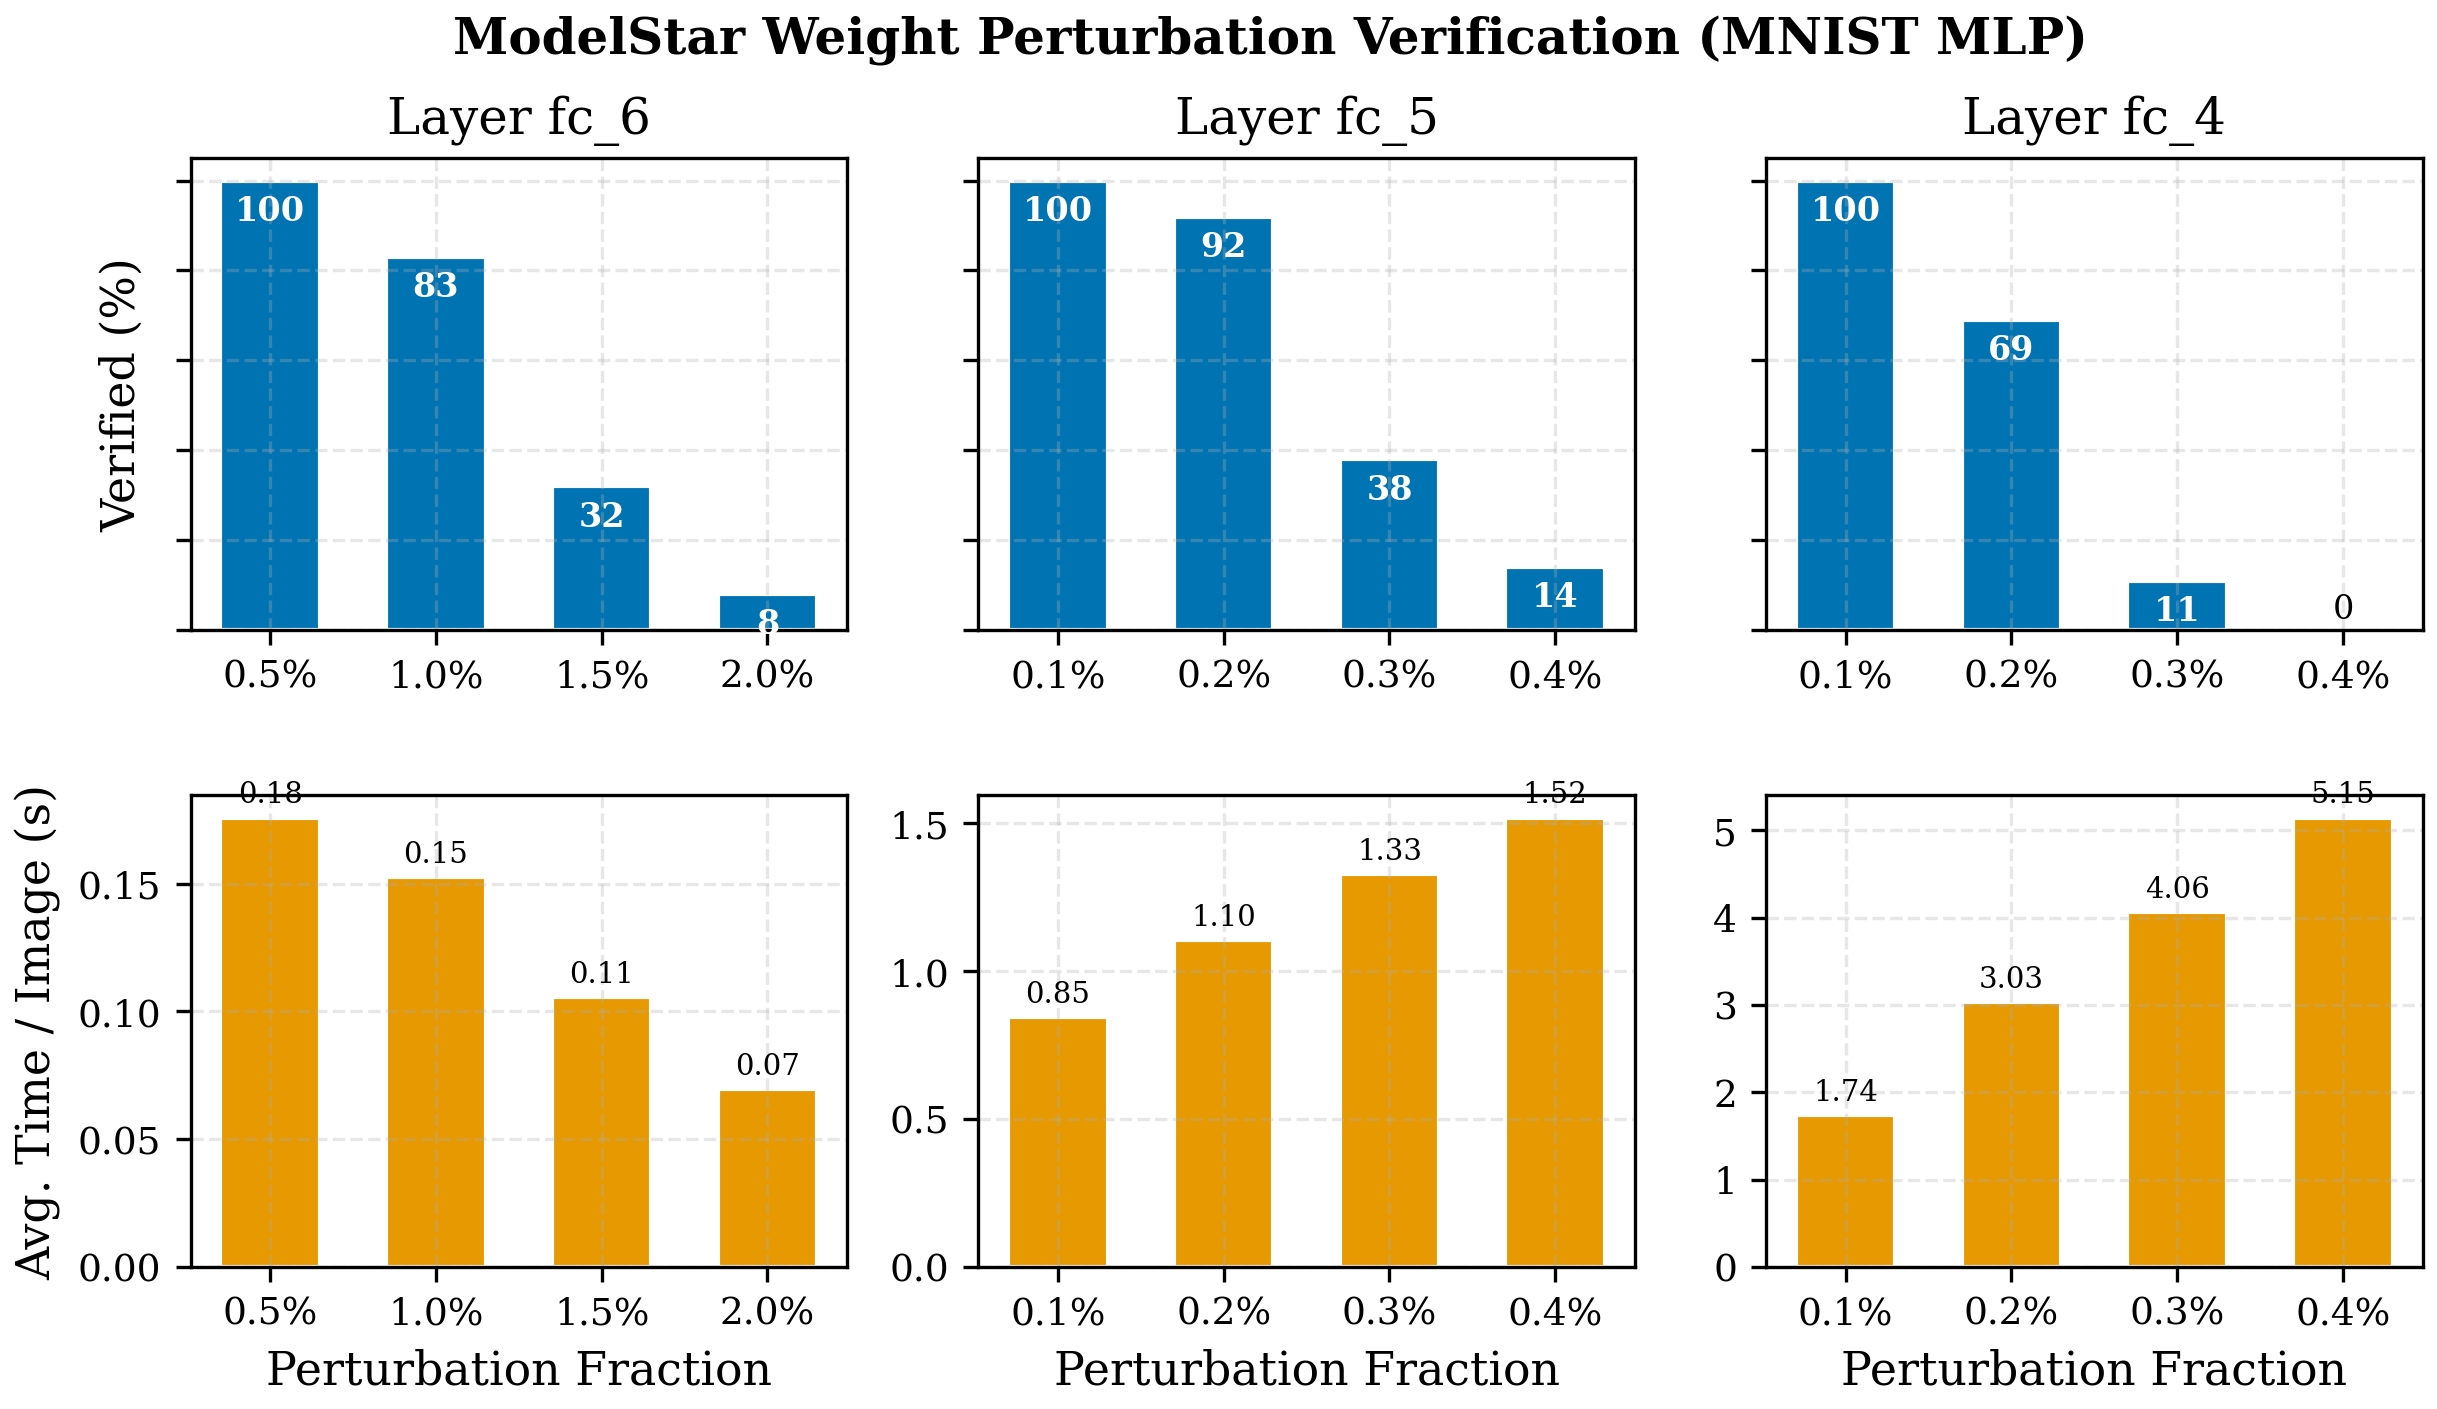
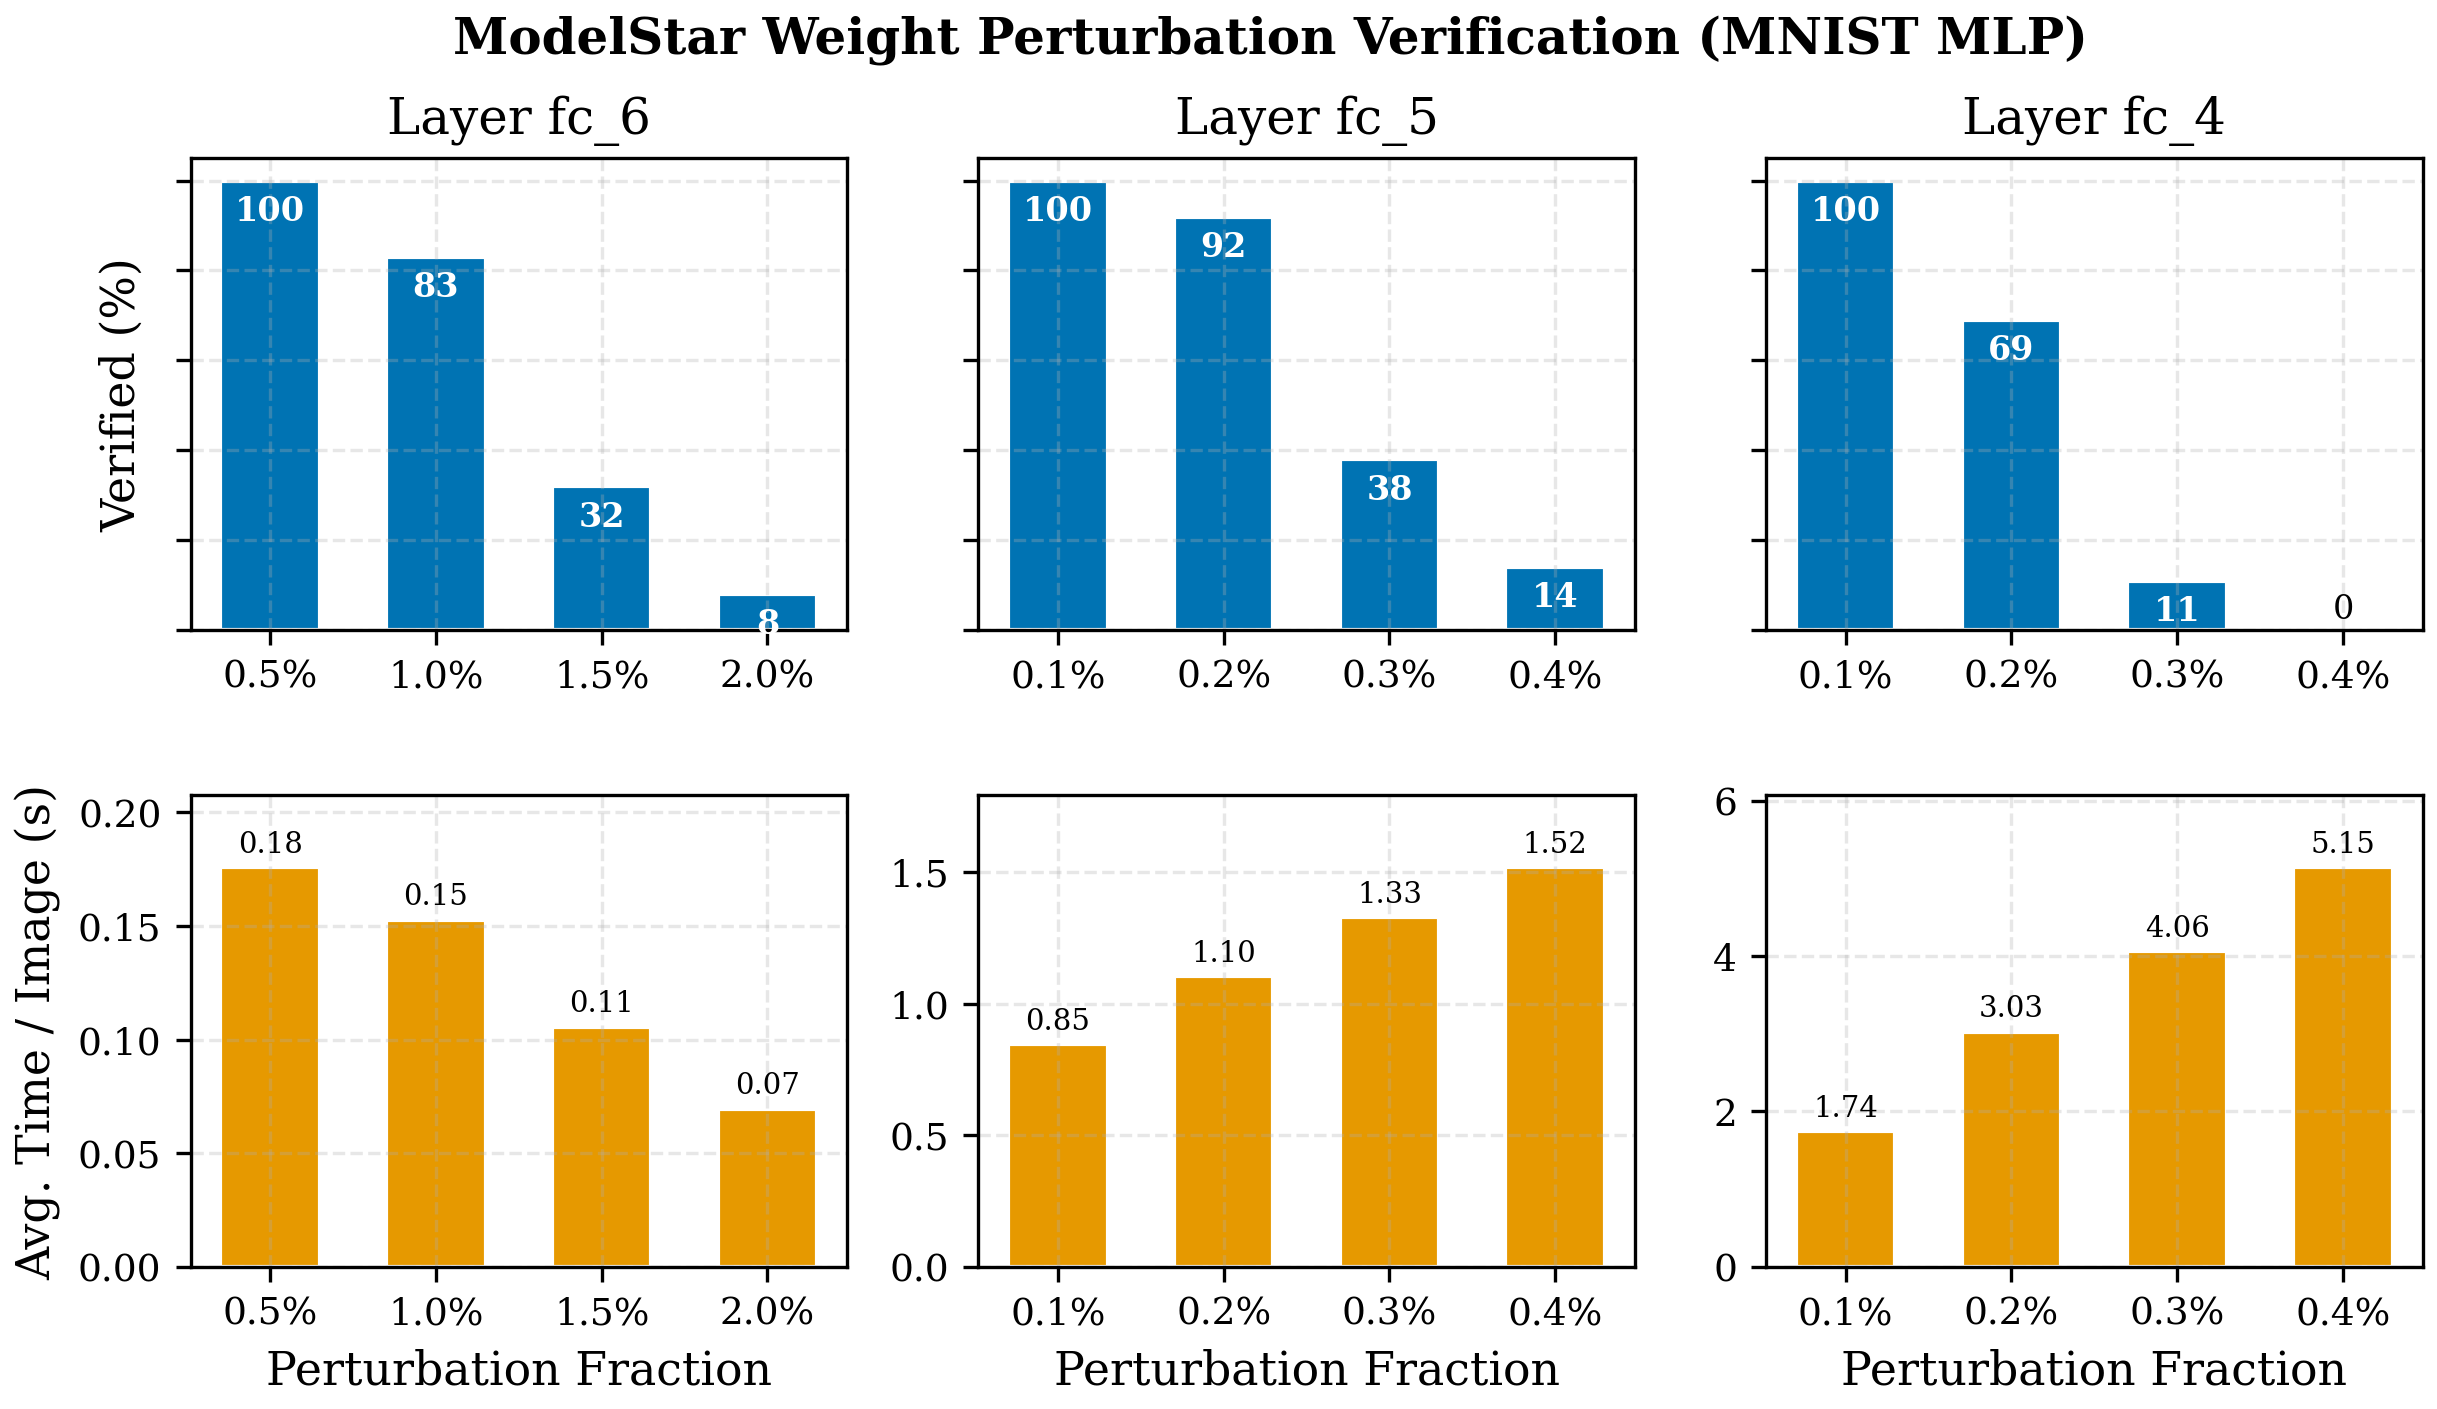
Exclude codeocean from MATLAB path to fix CI test failures
The codeocean capsule contains a standalone NNV copy with +nnet package
overrides that shadow MATLAB's built-in ONNX layer definitions when
genpath adds them to the path. This caused importNetworkFromONNX to
generate custom AddLayer classes instead of standard AdditionLayer,
breaking test_regression_acasxu_vnnlib and test_matlab2nnv.

Also update ModelStar figure to prevent timing labels from intersecting
the upper axis boundary.

diff --git a/code/nnv/examples/NNV3.0/codeocean/results/generate_figures.py b/code/nnv/examples/NNV3.0/codeocean/results/generate_figures.py
@@ -99,9 +99,15 @@ def generate_modelstar_figure():
         # Bottom row: avg time per image
         ax_bot = axes[1, col]
         bars_t = ax_bot.bar(range(len(fracs)), avg_time, color=ORANGE, edgecolor='white', width=0.6)
+        y_max = max(avg_time) * 1.18  # leave 18% headroom for labels
         for bar, t in zip(bars_t, avg_time):
-            ax_bot.text(bar.get_x() + bar.get_width()/2, bar.get_height() + max(avg_time)*0.02,
-                        f'{t:.2f}', ha='center', va='bottom', fontsize=7)
+            if t > y_max * 0.85:
+                ax_bot.text(bar.get_x() + bar.get_width()/2, bar.get_height() - y_max*0.03,
+                            f'{t:.2f}', ha='center', va='top', fontsize=7, color='white', fontweight='bold')
+            else:
+                ax_bot.text(bar.get_x() + bar.get_width()/2, bar.get_height() + y_max*0.02,
+                            f'{t:.2f}', ha='center', va='bottom', fontsize=7)
+        ax_bot.set_ylim(0, y_max)
         ax_bot.set_xticks(range(len(fracs)))
         ax_bot.set_xticklabels([f'{f*100:.1f}%' for f in fracs])
         ax_bot.set_xlabel('Perturbation Fraction')

diff --git a/code/nnv/startup_nnv.m b/code/nnv/startup_nnv.m
@@ -25,7 +25,12 @@ fprintf('\nAdding NNV to Matlab path...\n');
 %cd(newdir);
 
 addpath(pwd());
-addpath(genpath(pwd()));
+% Add all subdirectories except codeocean capsules (which contain a
+% standalone NNV copy that can shadow the real engine on the path)
+p = genpath(pwd());
+dirs = strsplit(p, pathsep);
+dirs = dirs(~contains(dirs, 'codeocean'));
+addpath(strjoin(dirs, pathsep));
 if is_codeocean()
     cd('/code/')
 end
